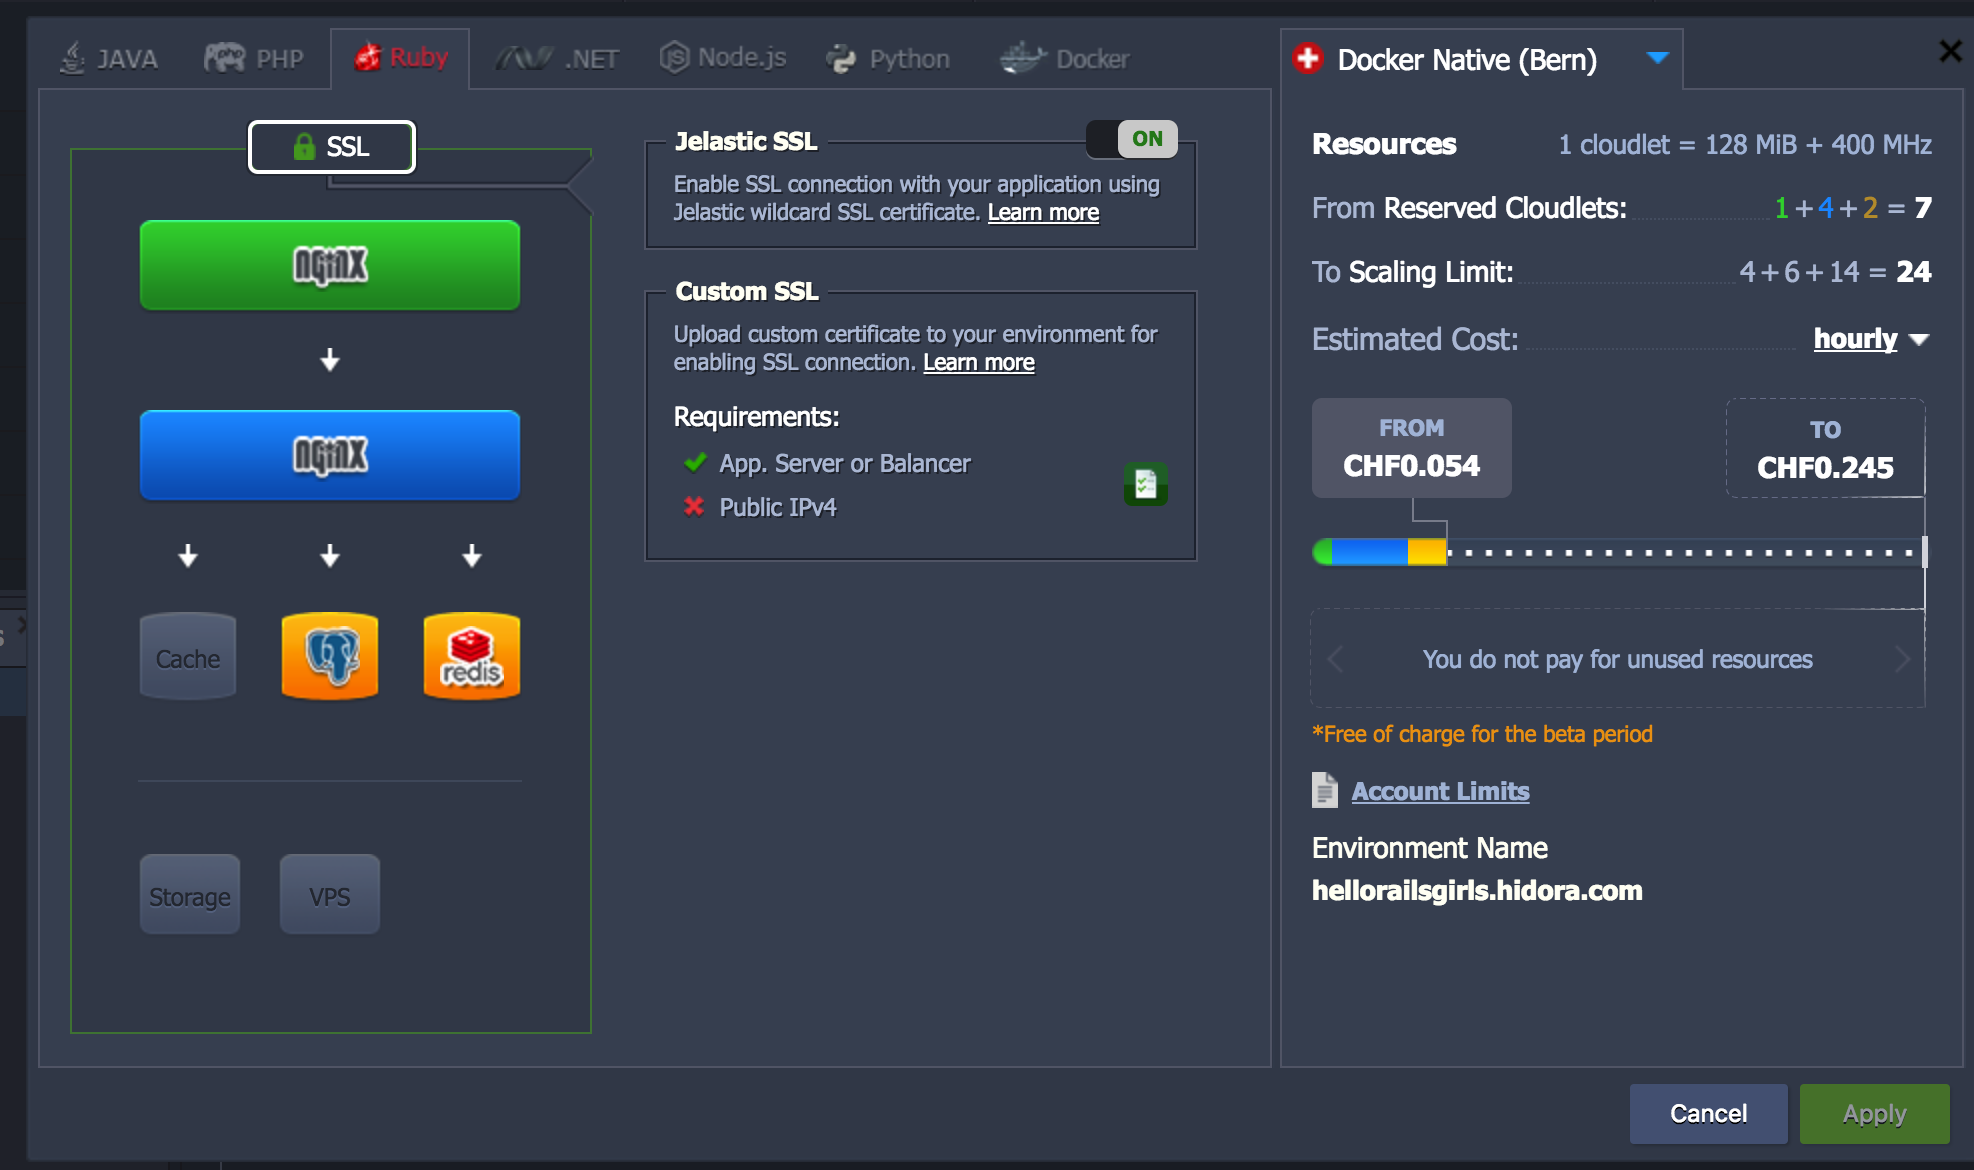
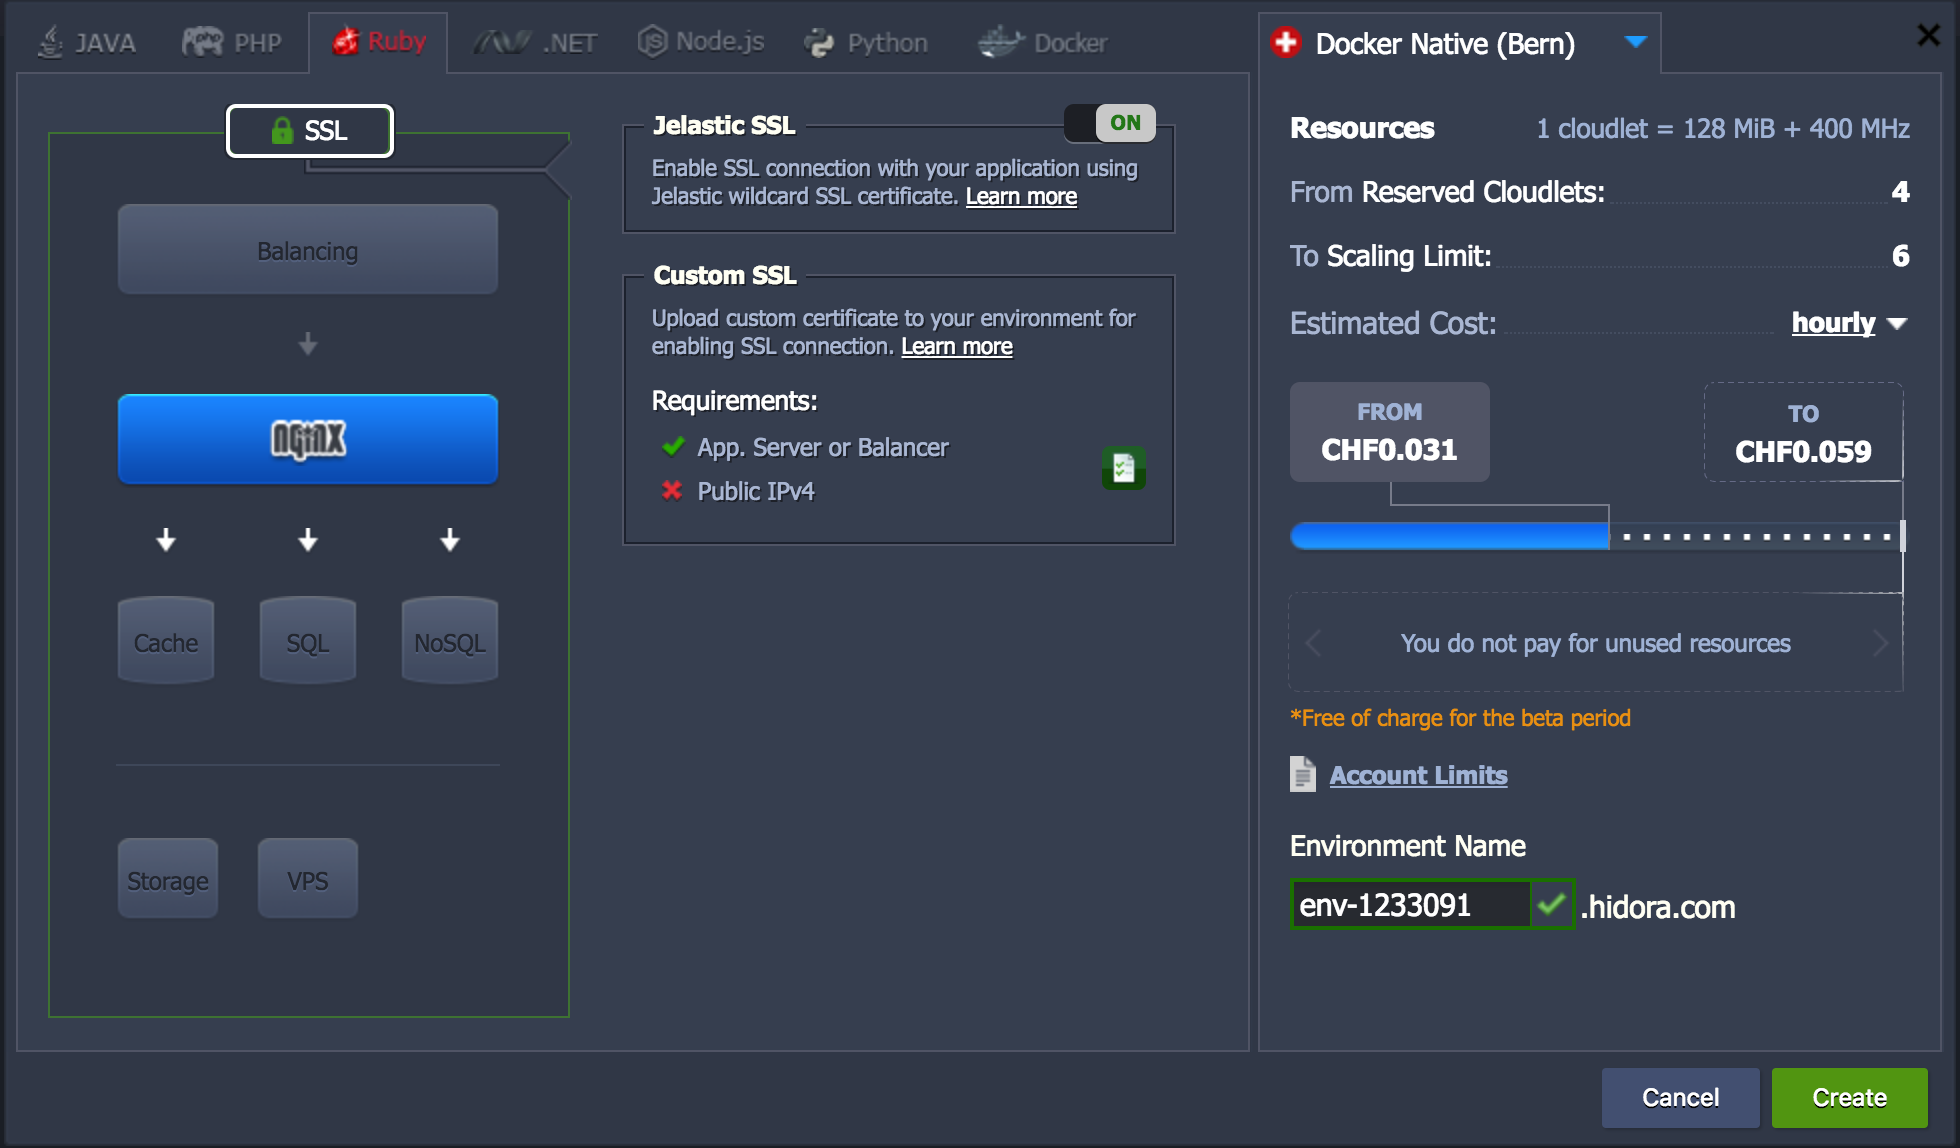
Updates Readme

diff --git a/README.md b/README.md
@@ -1,12 +1,64 @@
 # Deploy your app on [hidora.com](https://www.hidora.com)
 
-![](/readme_images/1.png)
-![](/readme_images/2.png)
-![](/readme_images/3.png)
-![](/readme_images/4.png)
-![](/readme_images/5.png)
+## Set up your enviroment on hidora.
 
-Set Environment Variables (Env Vars) in your application configuration. Since we're using the default Passenger server, we have to add the following lines at he bottom of the `server {}` in `/etc/nginx/app_servers/nginx-passenger.conf`.
+![](/readme_images/-1.png)
+
+Chose "Create a new environment" and click on "Ruby" at the top of the modal window.
+
+![](/readme_images/0.png)
+
+### SSL setup
+
+Start by setting 'SSL' by chosing the default Jelastic SSL.
+
+SSL (Secure Sockets Layer) is the standard security technology for establishing an encrypted link between a web server and a browser. This link ensures that all data passed between the web server and browsers remain private and integral. It's now somehow required by default by most users and Chrome now mark website that don't use it as "not secure".
+
+![](/readme_images/1.png)
+
+### Balancing setup
+
+Load balancing across multiple application instances is a commonly used technique for optimizing resource utilization, maximizing throughput, reducing latency, and ensuring fault-tolerant configurations. Even if you don't use multiple application instances yet, it's good to set it up now to be future-proof.
+
+![](/readme_images/2.png)
+
+### Ruby server setup
+
+We also need a server that support Ruby. Hidora is proposing [Phusion Passenger](https://en.wikipedia.org/wiki/Phusion_Passenger) as the default Ruby server which is a good choice. Here, we will just increase the ruby version to the last one, 2.4.1.
+
+![](/readme_images/3.png)
+
+### Database (DB) setup
+
+Here will set the database that our app will use. `Postgres` has become the _de facto_ relational database for a production app.
+
+![](/readme_images/4.1.png)
+![](/readme_images/4.2.png)
+
+We will also add a Redis instance because we need it for the Websockets used in this app.
+
+![](/readme_images/4.3.png)
+
+Finally click the "Apply" or "Create" button located on the bottom right of the modal window.
+
+You'll then get two emails by Hidora containing your credentials for the Postgres and for the Redis cartridges. These emails contain your password to access these cartridges. Keep these emails preciously, you'll need them later.
+
+![](/readme_images/5.1.png)
+![](/readme_images/5.2.png)
+
+For security reasons, we don't want to hardcode these credentials in our code. To set them up, we will use [Environment Variables (Env Vars)](https://en.wikipedia.org/wiki/Environment_variable).
+
+We have to set this Env Vars in our application configuration. Since we're using the default Passenger server, we have to edit the `/etc/nginx/app_servers/nginx-passenger.conf` configuration file.
+
+To reach this file, click on the config icon of the `Nginx Ruby` service.
+
+![](/readme_images/6.png)
+
+Then open the following path `Root > etc > nginx > app_servers` and open the `nginx-passenger.conf` file.
+
+![](/readme_images/7.png)
+
+Add the following lines at he bottom of the `server {}` declaration in `/etc/nginx/app_servers/nginx-passenger.conf`.
 
 ```
 passenger_env_var SECRET_KEY_BASE
@@ -54,6 +106,10 @@ server {
 
 You can generate a secret token for your app with `bin/rails secret ENV=production`.
 
+Once this line added, save the file by clicking on the "Save" icon.
+
+### Change your app configuration
+
 You have to change the database configuration of your app too. The configuration file is located at `/config/database.yml`.
 
 Change the `production:` part as the following:
@@ -67,4 +123,42 @@ production:
   password: <%= ENV['DATABASE_PASSWORD'] %>
 ```
 
-Once deployed this configuration will then inherit from the Env Vars that you have set above.
+You also have to change `config/cable.yml` as following:
+
+```
+development: &development
+  adapter: redis
+  url: redis://localhost:6379
+
+test: *development
+
+production:
+  adapter: redis
+  url: <%= ENV['REDIS_URL'] %>
+```
+
+Once deployed, our app configurations will inherit from the Env Vars that you have set above.
+
+### Deploy your app
+
+We will deploy our app from github. To do that click the "Add project" icon from the "Nginx Ruby Service".
+
+![](/readme_images/8.png)
+![](/readme_images/9.png)
+
+Enter the url to your github project and click "Add".
+
+The Jelastic tool on which Hidora is based can perform post deployment application configuration via `rake`. This is usually needed to finalize configuration of complex applications, to run additional applications or specific steps for application configuration like `db:migrate`. We will use this mechanism to create and migrate our database upon deploy. [more info](https://docs.jelastic.com/ruby-post-deploy-configuration)
+
+For this, we will create a `rake_deploy` file at the root of our application with the following content:
+
+```
+db:create RAILS_ENV=production
+db:migrate RAILS_ENV=production
+assets:precompile RAILS_ENV=production
+```
+
+Now commit your code and push it to github. Once done,
+redeploy it by clickining on the "Update from git" icon of the "Production" context.
+
+![](/readme_images/10.png)
